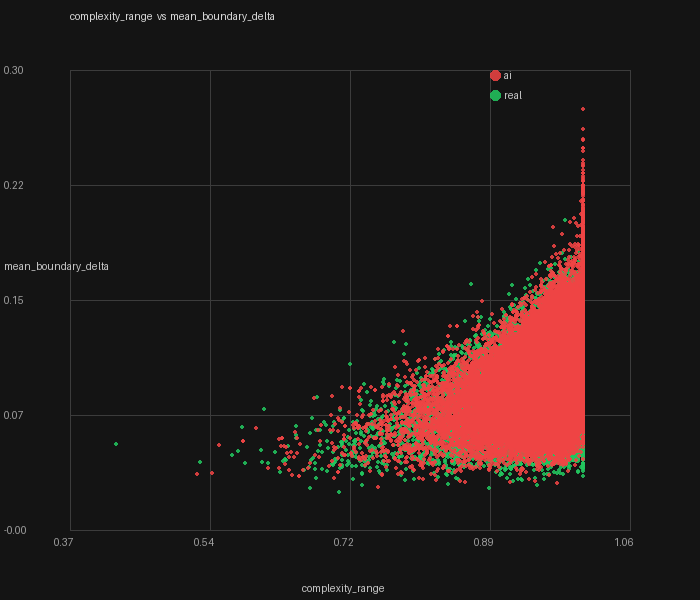
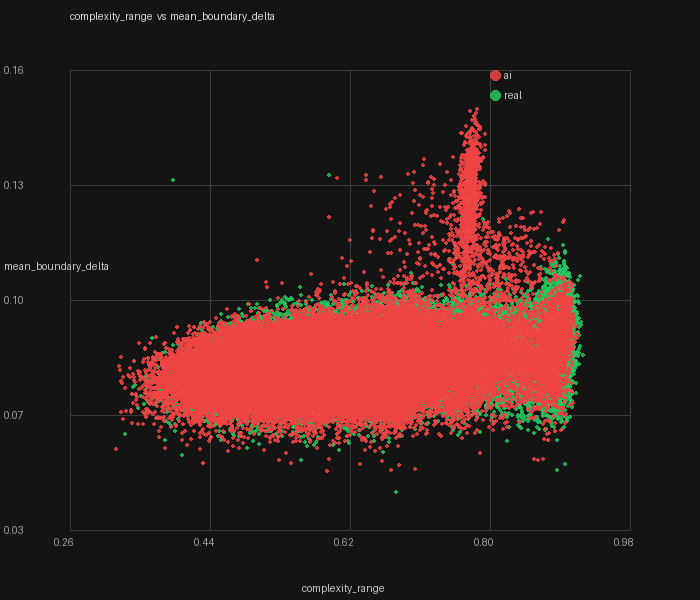
merge branch into main

diff --git a/ReadMe.MD b/ReadMe.MD
@@ -1,7 +1,6 @@
 # entropy_viz
-# entropy_viz
 
-A Python tool that visualizes image complexity as an adaptive quadtree overlay using compression-based entropy scoring, with applications in AI-generated image detection and manipulation forensics.
+A Python tool that visualizes image complexity as an adaptive quadtree overlay using entropy scoring, with applications in AI-generated image detection and manipulation forensics.
 
 ---
 
@@ -9,10 +8,7 @@ A Python tool that visualizes image complexity as an adaptive quadtree overlay u
 
 entropy_viz recursively subdivides an image into quadrants and scores each region for complexity. High-complexity regions — dense texture, fine detail, irregular structure — subdivide into smaller cells. Low-complexity regions — flat color, blurred backgrounds, repeated patterns — remain as large blocks. The result is an overlay where cell size and color both encode information density.
 
-The core insight driving the project: compression ratio is a better proxy for true complexity than Shannon entropy. A blurred background has varied pixel values (high Shannon entropy) but compresses easily (low Kolmogorov complexity). zlib correctly identifies it as simple. Shannon does not.
-entropy_viz recursively subdivides an image into quadrants and scores each region for complexity. High-complexity regions — dense texture, fine detail, irregular structure — subdivide into smaller cells. Low-complexity regions — flat color, blurred backgrounds, repeated patterns — remain as large blocks. The result is an overlay where cell size and color both encode information density.
-
-The core insight driving the project: compression ratio is a better proxy for true complexity than Shannon entropy. A blurred background has varied pixel values (high Shannon entropy) but compresses easily (low Kolmogorov complexity). zlib correctly identifies it as simple. Shannon does not.
+The core insight driving the project: compression ratio is a better proxy for true complexity than Shannon entropy. A blurred background has varied pixel values (high Shannon entropy) but compresses easily (low Kolmogorov complexity). zlib correctly identifies it as simple. Shannon does not. Variance offers a fast middle ground — cheaper than compression but more spatially grounded than Shannon.
 
 ---
 
@@ -24,8 +20,6 @@ pip install pillow numpy
 
 Requires Python 3.7+.
 
-Requires Python 3.7+.
-
 ---
 
 ## Usage
@@ -33,24 +27,20 @@ Requires Python 3.7+.
 ### Single image
 
 ```bash
-# Compression entropy, fixed depth
-# Compression entropy, fixed depth
-python main.py photo.jpg --method compression --max-depth 6
+# Shannon entropy, default leaf size (4px)
+python main.py photo.jpg
 
-# Shannon entropy, fixed depth
-python main.py photo.jpg --method shannon --max-depth 5
+# Compression entropy, default leaf size (16px)
+python main.py photo.jpg --method compression
 
-# Adaptive splitting — stops when complexity drops below threshold
-python main.py photo.jpg --method compression --threshold 0.4
+# Variance scorer, custom leaf size
+python main.py photo.jpg --method variance --leaf-size 8
 
-# Adaptive splitting — stops when complexity drops below threshold
-python main.py photo.jpg --method compression --threshold 0.4
+# Adaptive pruning — collapse least complex 25% of leaves after full build
+python main.py photo.jpg --method compression --threshold 25
 
-# Both stopping conditions active
-python main.py photo.jpg --method compression --max-depth 6 --threshold 0.4
-
-# Save to custom path, no legend
-python main.py photo.jpg -o result.png --no-legend
+# Save to custom path, show legend and borders
+python main.py photo.jpg -o result.png --legend --borders
 ```
 
 ### Batch processing
@@ -104,22 +94,35 @@ python scatter.py results/features.csv --auto
 
 **Scoring methods**
 
-Two complexity scorers are available, both returning a normalized float in `[0, 1]`:
+Three complexity scorers are available, all returning a normalized float in `[0, 1]`:
 
-- **Shannon entropy** — measures pixel value distribution. Fast but blind to spatial repetition.
-- **Compression ratio** — compresses raw pixel bytes with zlib and measures how much they shrink. Slower but more principled — it approximates Kolmogorov complexity from above.
+- **Shannon entropy** — measures pixel value distribution across all channels as a single flattened histogram. Fast, works well at small leaf sizes.
+- **Compression ratio** — compresses raw pixel bytes with zlib and measures how much they shrink. Slower but more principled — approximates Kolmogorov complexity from above. Reliable at `leaf_size >= 16`.
+- **Variance** — computes `np.var` across pixel values. Fastest scorer. Raw values are adaptively normalized using the 99th percentile of the image's own distribution with sqrt stretching — no hardcoded constants.
 
-Both scorers accept an optional opacity mask and only score opaque pixels, so transparent regions don't corrupt the complexity measurement of boundary nodes.
+All scorers accept an optional opacity mask and only score opaque pixels, so transparent regions don't corrupt the complexity measurement of boundary nodes.
 
 **Quadtree construction**
 
-The image is recursively split into four quadrants. Splitting stops when any of the following are met:
+The image is recursively split into four quadrants using a two-pass approach:
 
-- `max_depth` is reached (fixed mode)
-- Region complexity falls below `threshold` (adaptive mode) — evaluated on opaque pixels only
-- Region complexity falls below `threshold` (adaptive mode) — evaluated on opaque pixels only
-- Region becomes smaller than `min_size` pixels
+Pass 1 — build to full depth. Splitting stops when:
+- The child would be at or below `leaf_size` pixels (resolution-independent — equivalent spatial granularity across any image size)
 - Region is >= 95% transparent (background guard)
+
+Pass 2 — percentile pruning (optional). If `--threshold` is set, leaf nodes below the Nth percentile of the image's own complexity distribution are collapsed back into their parent. This is fully content-adaptive — the cutoff is derived from the image itself, not a fixed value.
+
+**Leaf size defaults**
+
+| Method | Default leaf size | Rationale |
+|--------|-------------------|-----------|
+| `shannon` | 4px | Works accurately at fine grain |
+| `variance` | 4px | Works accurately at fine grain |
+| `compression` | 16px | zlib unreliable below ~768 bytes |
+
+**Adaptive variance normalization**
+
+When rendering an overlay with `--method variance`, the raw variance scores are rescaled using `sqrt(var / p99)` where `p99` is the 99th percentile of the image's own leaf variances. This ensures the full color range is used regardless of image content. Normalization is skipped during `--no-overlay` batch runs for speed.
 
 **Background masking**
 
@@ -127,7 +130,7 @@ For RGBA images, each node is tagged with `background_ratio` (fraction of transp
 
 **Visualization**
 
-Subject nodes are colored by complexity score: blue (low) → green → yellow → red (high). Background nodes appear as neutral grey. The output PNG preserves the original alpha channel so transparent regions remain transparent.
+Subject nodes are colored by complexity score: blue (low) → green → yellow → red (high). Background nodes appear as neutral grey. The output PNG preserves the original alpha channel so transparent regions remain transparent. Borders and legend are opt-in via `--borders` and `--legend`.
 
 **Feature extraction**
 
@@ -137,16 +140,9 @@ Each quadtree is distilled into a feature vector and written to `features.csv`:
 |---------|-------------|
 | `mean_complexity` | Average complexity across subject leaf nodes |
 | `std_complexity` | Variance — low in AI images which tend toward uniform complexity |
-| `min_complexity` | Floor of complexity |
-| `max_complexity` | Ceiling of complexity |
-| `complexity_range` | max − min |
-| `mean_leaf_area` | Average subject leaf area in pixels |
-| `std_leaf_area` | Variance in leaf area |
-| `leaf_count` | Total subject leaf count |
+| `complexity_range` | max − min — spread of the distribution |
 | `mean_boundary_delta` | Average complexity jump between parent and child nodes |
-| `max_boundary_delta` | Maximum boundary jump — manipulation signal |
-| `mean_depth` | Average depth of subject leaf nodes |
-| `std_depth` | Variance in depth |
+| `leaf_count` | Total subject leaf count |
 
 ---
 
@@ -154,7 +150,7 @@ Each quadtree is distilled into a feature vector and written to `features.csv`:
 
 | File | Purpose |
 |------|---------|
-| `complexity.py` | Shannon entropy and compression ratio scorers, with opacity mask support |
+| `complexity.py` | Shannon, compression, and variance scorers with opacity mask support |
 | `quadtree.py` | `QuadNode` dataclass and `QuadTree` builder with background masking |
 | `visualizer.py` | Overlay rendering, RGBA preservation, and colorbar legend |
 | `features.py` | Feature extraction and CSV export |
@@ -170,14 +166,12 @@ Each quadtree is distilled into a feature vector and written to `features.csv`:
 
 | Flag | Default | Description |
 |------|---------|-------------|
-| `--method` | `shannon` | `shannon` or `compression` |
-| `--max-depth` | `6` | Max split depth. `0` = adaptive only |
-| `--threshold` | off | Stop splitting below this complexity score |
-| `--min-size` | `8` | Minimum region side length (pixels) |
-| `--bg-threshold` | `0.5` | Nodes with this fraction of transparent pixels are excluded from stats and shown as grey |
+| `--method` | `shannon` | `shannon`, `compression`, or `variance` |
+| `--leaf-size` | method default | Target leaf side length in pixels |
+| `--threshold` | off | Percentile (0–100) — prune least complex leaves after full build |
 | `--alpha` | `120` | Overlay opacity (0–255) |
-| `--no-borders` | off | Hide quadrant border lines |
-| `--no-legend` | off | Omit colorbar legend |
+| `--borders` | off | Show quadrant border lines |
+| `--legend` | off | Show colorbar legend |
 
 **batch.py** (includes all main.py options plus):
 
@@ -186,6 +180,7 @@ Each quadtree is distilled into a feature vector and written to `features.csv`:
 | `--label` | none | Label for all images in this batch (`real`, `ai`, `photoshopped`) |
 | `--append` | off | Append to existing `features.csv` instead of overwriting |
 | `--no-overlay` | off | Skip overlay rendering, extract features only |
+| `--workers` | `1` | Number of parallel workers |
 
 **scatter.py**
 
@@ -193,8 +188,8 @@ Each quadtree is distilled into a feature vector and written to `features.csv`:
 |------|---------|-------------|
 | `--x` | `mean_complexity` | Feature for the x axis |
 | `--y` | `std_complexity` | Feature for the y axis |
-| `--output` | `<csv>_scatter.png` | Output image path |
-| `--auto` | off | Generate scatter plots for all feature pair combinations |
+| `--output` | `<csv>_<x>_vs_<y>_scatter.png` | Output image path |
+| `--auto` | off | Generate scatter plots for all meaningful feature pairs |
 
 ---
 
@@ -218,8 +213,9 @@ These signatures emerge from no training data and no learned model — purely fr
 
 ## Known Limitations
 
-- **Shannon entropy** produces a noisy grid at high depth due to statistical artifacts in small blocks. Use `--method compression` or raise `--min-size` to mitigate.
-- **Compression thresholds** are not on the same scale as Shannon thresholds. Start around `0.4` for compression adaptive splitting.
+- **Shannon entropy** produces a noisy grid at high depth due to statistical artifacts in small blocks. Use `--method compression` or increase `--leaf-size` to mitigate.
+- **Compression scoring** is unreliable at `leaf_size < 16` — zlib header overhead dominates at small block sizes.
+- **Variance normalization** is per-image, so raw feature values are not directly comparable across images processed independently. The relative ordering within an image is preserved.
 - **Boundary nodes** that straddle the subject/background edge are scored on their opaque pixels only, which can produce elevated complexity scores if the subject content in that cell is detailed.
 - **RealVsFake** images are face-centric — results may not generalize to non-portrait subjects without further validation.
 
@@ -230,7 +226,10 @@ These signatures emerge from no training data and no learned model — purely fr
 **Near term**
 - ✅ Feature extraction: distill each quadtree into a feature vector exportable as CSV
 - ✅ Scatter plot visualization of feature separation across labeled datasets
-- Lightweight classifier: logistic regression on extracted features — no neural networks, architecture-agnostic by design
+- ✅ Variance scorer: fast alternative to compression with adaptive normalization
+- ✅ Resolution-independent splitting via leaf_size
+- ✅ Two-pass percentile pruning for content-adaptive threshold
+- Lightweight classifier: logistic regression, SVM, random forest, gradient boosting on extracted features
 
 **Medium term**
 - Merge-step delta scoring: measure the information gained at each split boundary — this is where manipulation boundaries show up most clearly
@@ -251,17 +250,8 @@ General frequency-domain analysis has shown that GAN-generated images exhibit pe
 
 ---
 
-## Related Work
-
-**Synthbuster** (2024) is the closest non-neural approach in the literature. It applies a cross-difference filter to highlight periodic artifacts in synthetic images, then extracts spectral features in the frequency domain and classifies them using gradient boosting. It targets GAN-specific upsampling artifacts — a different signal and a different domain from complexity-based analysis. Unlike Synthbuster, this project makes no assumptions about the generative architecture.
-
-General frequency-domain analysis has shown that GAN-generated images exhibit periodic spectral artifacts caused by upsampling operations. Compression-based complexity is architecture-agnostic by design and does not rely on these artifacts, which may not be present in diffusion-model outputs.
-
----
-
 ## Background
 
 The theoretical grounding for this project is Kolmogorov complexity — the length of the shortest program that produces a given output. True Kolmogorov complexity is uncomputable (proven via reduction to the halting problem), but compression ratio provides a computable upper bound. The project explores how far this approximation can take a practical detector.
 
-The spatial distribution of complexity — not just a single score — is where the signal lives. A deepfake has a specific quadtree signature: a low-variance complexity island (the generated face) surrounded by a high-delta boundary ring, embedded in naturally varying terrain. That pattern is rare in unmanipulated photographs and detectable without any knowledge of the generative model that produced it.
 The spatial distribution of complexity — not just a single score — is where the signal lives. A deepfake has a specific quadtree signature: a low-variance complexity island (the generated face) surrounded by a high-delta boundary ring, embedded in naturally varying terrain. That pattern is rare in unmanipulated photographs and detectable without any knowledge of the generative model that produced it.
